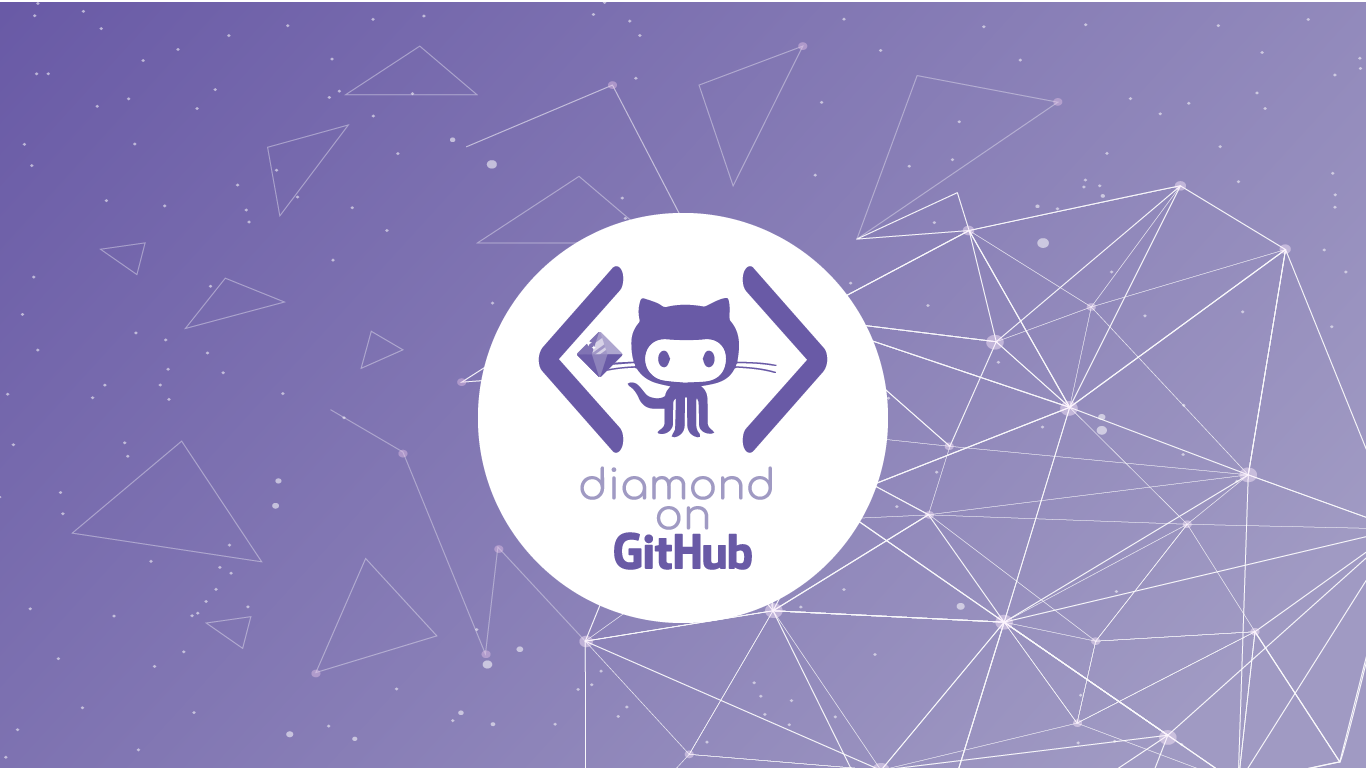
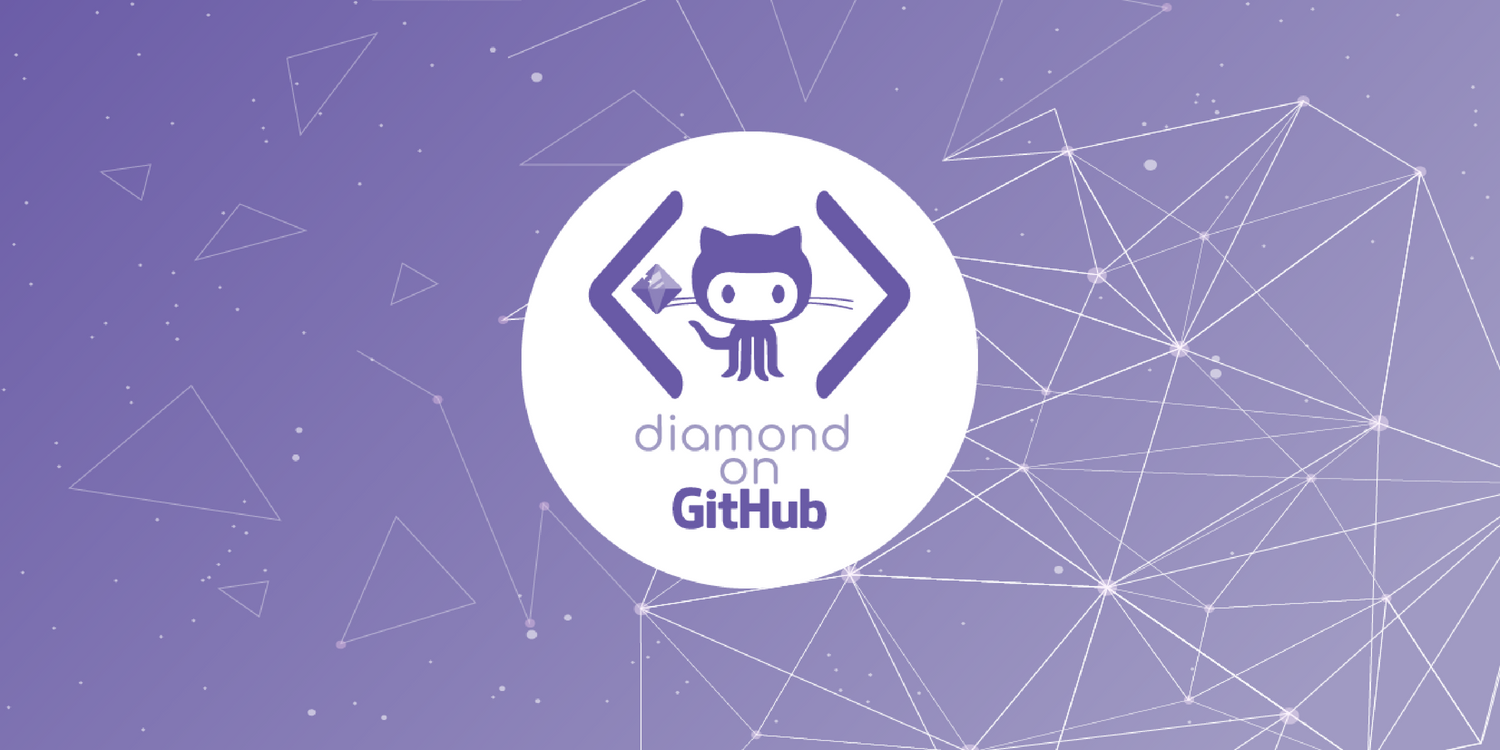
Atualização dos Cards

diff --git a/src/Components/Section/Section.js b/src/Components/Section/Section.js
@@ -9,7 +9,19 @@ class Section extends Component {
         super(props)
 
         this.state = {
-            lista: [
+            list: [
+                {
+                    image: '',
+                    name: 'Cynthia Zanoni',
+                    repository: 'wifi-livre-sp',
+                    description: 'Lista de locais públicos em São Paulo (capital) com acesso livre à internet'
+                },
+                {
+                    image: '',
+                    name: 'Aline Silva',
+                    repository: 'Diamond',
+                    description: 'Lorem Ipsum'
+                },
                 {
                     image: '',
                     name: 'Cynthia Zanoni',
@@ -30,11 +42,11 @@ class Section extends Component {
         return (
             <div>
                 <h1>Aqui você encontra alguns diamantes do Github</h1>
-
-                {this.state.lista.map(item => (
+                <div className='container'>
+                {this.state.list.map(item => (
                     <Card key={item.repository} image={item.image} name={item.name} repository={item.repository} description={item.description} />
                 ))}
-
+                </div>
             </div>
         )
     }

diff --git a/src/Components/Card/Card.js b/src/Components/Card/Card.js
@@ -1,5 +1,7 @@
 import React, { Component } from 'react'
-import avatar from './avatar.jpg'
+// import avatar from './avatar.jpg'
+import octocat from './octocat_250x200.png'
+import './Card.css'
 
 class Card extends Component {
   handleClick = (e) => {
@@ -8,13 +10,13 @@ class Card extends Component {
 
   render() {
     return (
-      <div>
-        <img src={this.props.image || avatar} alt="Avatar" />
-        <h3>{this.props.name}</h3>
-        <p>{this.props.repository}</p>
-        <p>{this.props.description}</p>
-        <a nClick={this.handleClick}>Link</a>
-      </div>
+        <div className='box'>
+          <img src={this.props.image || octocat} alt="Avatar" />
+          <h3>{this.props.name}</h3>
+          <p>{this.props.repository}</p>
+          <p>{this.props.description}</p>
+          <a href='#' onClick={this.handleClick}>Link</a>
+        </div>
     )
   }
 }

diff --git a/src/Components/Card/Card.css b/src/Components/Card/Card.css
@@ -1,0 +1,29 @@
+/* .container {
+	max-width: 400px;
+	margin: 0 auto;
+	display: flex;
+  border: 1px solid #ccc;
+  padding: 1rem;
+  box-sizing: border-box;
+  border-radius: 10px;
+  box-shadow: 0 3px 3px 0 rgba(0, 0, 0, 0.14);
+  width: 100%;
+  margin-bottom: 2em;
+} */
+
+/* .container {
+  display: flex;
+  width: 100%;
+  padding: 1em;
+  text-align: center;
+  border-radius: 10px;
+  box-shadow: 0 3px 3px 0 rgba(0, 0, 0, 0.14);
+} */
+
+.box {
+  flex: 1;
+}
+
+
+
+

diff --git a/src/Components/Background/Background.js b/src/Components/Background/Background.js
@@ -1,5 +1,5 @@
 import React from 'react'
-import background from './Background.png'
+import background from './background_woman.jpg'
 import './Background.css'
 
 function Background(props) {

diff --git a/src/Components/Section/Section.css b/src/Components/Section/Section.css
@@ -1,0 +1,10 @@
+
+.container {
+  display: flex;
+  width: 100%;
+  padding: 1em;
+  text-align: center;
+  border-radius: 10px;
+  box-shadow: 0 3px 3px 0 rgba(0, 0, 0, 0.14);
+}
+

diff --git a/src/Components/Background/Background.css b/src/Components/Background/Background.css
@@ -1,5 +1,6 @@
 .background {
     display: block;
     width: 100%;
-    height: 30em;
+    
+
 }
